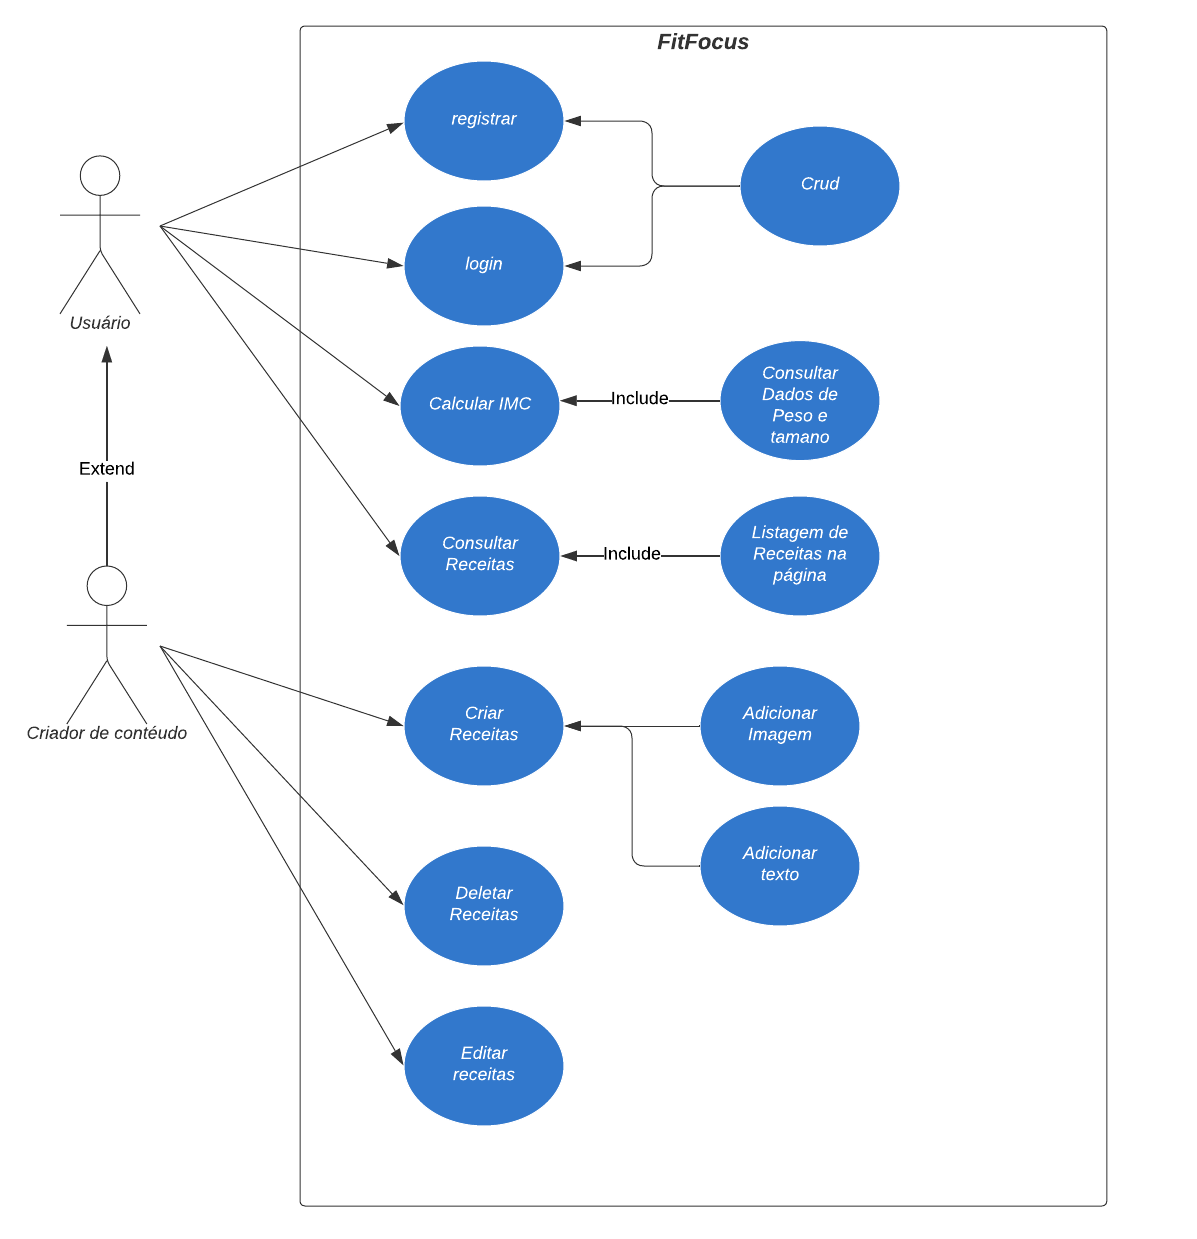
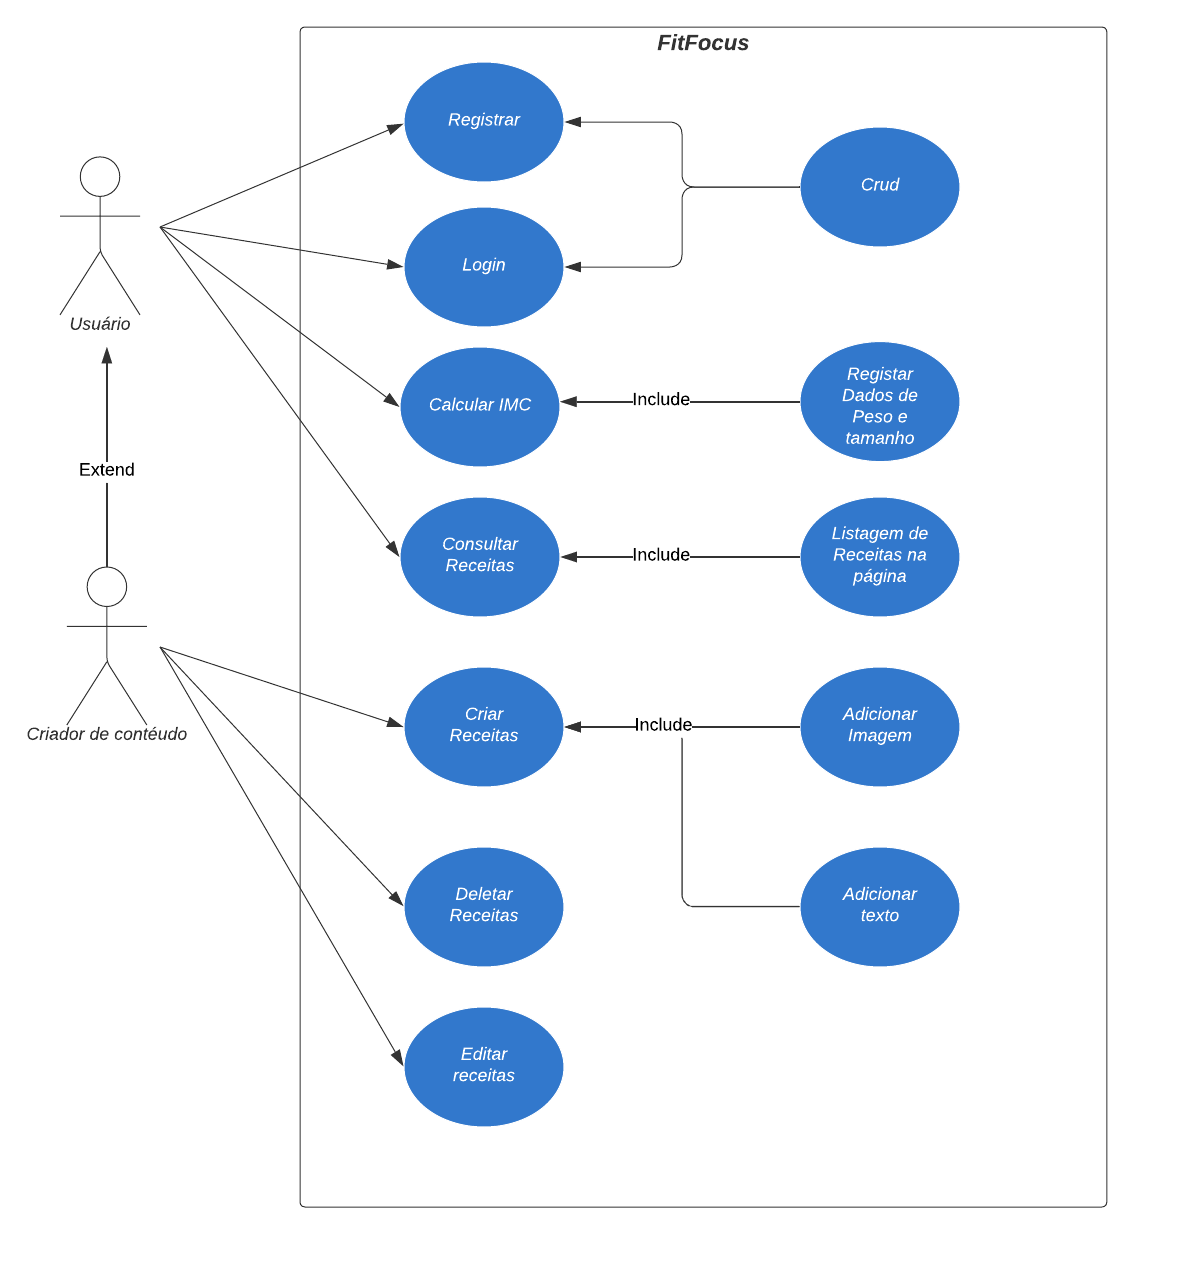
Atualizando imagem CasoDeUso.png

diff --git a/docs/02-Especificação do Projeto.md b/docs/02-Especificação do Projeto.md
@@ -141,7 +141,7 @@ Enumere as restrições à sua solução. Lembre-se de que as restrições geral
 
 ## Diagrama de Casos de Uso
 
-<img src=https://github.com/ICEI-PUC-Minas-PMV-ADS/pmv-ads-2024-1-e3-proj-mov-t6-pmv-ads-2024-1-e3-proj-fitfocus/blob/3851333e61a611d0d5b0b27fd7c9bf91c0dd63e1/docs/img/CasoDeUso.png />
+![Processo 1](img/CasoDeUso.png)
 
 # Matriz de Rastreabilidade
 
